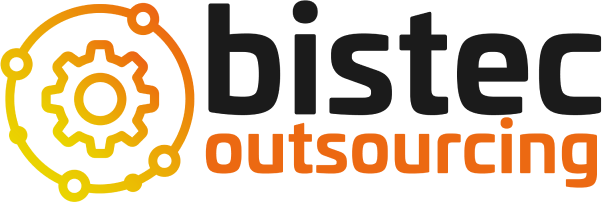
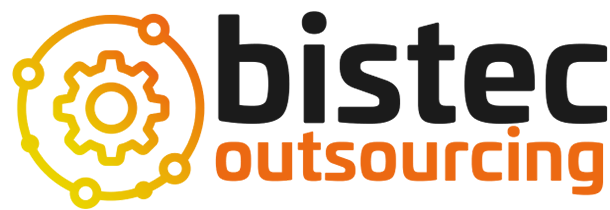
corrige tamanho das imagens e padroniza para 610x210px, feita algumas alterações no css do texto

diff --git a/index.html b/index.html
@@ -65,8 +65,8 @@
         <section class="bistec-produtos" id="bistec-automaçao">
                 <img src="assets/images/img-lg-bistec-automação.png" alt="Bistec Automação">
                 <div class="texto-produtos">
-                    <h4>Troque a anotação pela automação</h4>
-                    <h2>Facilite a sua gestão e o consumo dos seus clientes. Automatize.</h2>
+                    <h2>Troque a anotação pela automação</h2>
+                    <h4>Facilite a sua gestão e o consumo dos seus clientes. Automatize.</h4>
                     <p>
                         A Bistec, já consolidada no mercado de <strong>tecnologia para o comércio e serviços</strong>, oferece o kit completo para montar seu PDV e automatizar suas vendas. Adquira a Solução SAT Fiscal, facilite sua gestão e as transações com seus clientes, e esteja em dia com a legislação fiscal.
                     </p>
@@ -85,8 +85,8 @@
         <section class="bistec-produtos" id="bistec-cloud">
             <img src="assets/images/img-lg-bistec-cloud.png" alt="Bistec Cloud">
                 <div class="texto-produtos">
-                    <h4>Backup corporativo na nuvem</h4>
-                    <h2>Guarde o que é importante com segurança, sem ocupar espaço algum!</h2>
+                    <h2>Backup corporativo na nuvem</h2>
+                    <h4>Guarde o que é importante com segurança, sem ocupar espaço algum!</h4>
                     <p>
                         As informações corporativas estão cada vez mais digitalizadas e online. Por isso, as empresas devem se prevenir contra a perda de informações importantes e, para tanto, precisam adotar políticas de backup eficazes que contemplem o armazenamento fora do ambiente produtivo.
                     </p>
@@ -102,7 +102,7 @@
         <section class="bistec-produtos" id="bistec-edu">
             <img src="assets/images/img-lg-bistec-edu.png" alt="Bistec Edu">
                 <div class="texto-produtos">
-                    <h2>Treinamentos: use a tecnologia com capacidade máxima.</h2>
+                    <h4>Treinamentos: use a tecnologia com capacidade máxima.</h4>
                     <p>
                         Faça o treinamento com toda a sua equipe e explore 100% da capacidade das soluções adquiridas. A Bistec Edu é a divisão de <strong>prestação de serviços de treinamentos em informática</strong> e de desenvolvimento profissional e gerencial.
                     </p>
@@ -123,16 +123,16 @@
 
         <section class="bistec-produtos" id="bistec-gpdr">
             <img src="assets/images/img-lg-GPDR.png" alt="Bistec GDPR">
-                <h4 class="texto-produtos">
+                <h2 class="texto-produtos">
                     Lorem ipsum dolor sit amet, consectetur adipiscing elit. Mauris suscipit aliquam quam id accumsan. Vestibulum accumsan sem ornare libero sodales elementum
-                </h4>
+                </h2>
         </section>
 
         <section class="bistec-produtos" id="bistec-outsourcing">
             <img src="assets/images/img-lg-bistec-outsourcing.png" alt="Bistec OutSourcing">
                 <div class="texto-produtos">
-                    <h4 class="widget-title">Contrate outsourcing de TI</h4><p>
-                        <h2>Contrate técnicos preparados para cuidar de sua empresa.</h2>
+                    <h2 class="widget-title">Contrate outsourcing de TI</h2><p>
+                        <h4>Contrate técnicos preparados para cuidar de sua empresa.</h4>
                         <p>
                             Por um valor mensal, sua empresa pode contar com suporte técnico telefônico e on-line, além de visitas técnicas preventivas e corretivas. Realizamos manutenções periódicas e resolvemos casos mais graves em seus equipamentos, com o compromisso de atender de forma rápida e eficiente.
                         </p>
@@ -148,8 +148,8 @@
         <section class="bistec-produtos" id="bistec-renting">
             <img src="assets/images/img-lg-bistec-renting.png" alt="Bistec Renting">
                 <div class="texto-produtos">
-                    <h4>Renting de TI</h4>
-                        <h2>Faça a locação de equipamentos, e mantenha a liquidez de sua empresa</h2>
+                    <h2>Renting de TI</h2>
+                        <h4>Faça a locação de equipamentos, e mantenha a liquidez de sua empresa</h4>
                         <p>
                             Mantenha a sua liquidez adquirindo os sistemas de gestão e TI através da locação de equipamentos.
                         </p>
@@ -174,8 +174,8 @@
         <section class="bistec-produtos" id="bistec-soft">
             <img src="assets/images/img-lg-bistec-soft.png" alt="Bistec Soft">
                 <div class="texto-produtos">
-                    <h4>Todo tipo de software</h4><p>
-                        <h2>O Bistec soft agora cuida do seu site e contas de e-mail!</h2>
+                    <h2>Todo tipo de software</h2><p>
+                        <h4>O Bistec soft agora cuida do seu site e contas de e-mail!</h4>
                         <p>
                             Se você esta procurando um Software para Automação Comercial, clique <strong><a href="https://www.bistec.com.br/portfolio/bistec-automacao/">aqui</a></strong> e você será direcionado para a página BISTEC Automação.
                         </p>
@@ -188,7 +188,7 @@
                             <li>Realidade Aumentada</li>
                         </ul>
 
-                        <h2>Crie já o seu site institucional</h2>
+                        <h4>Crie já o seu site institucional</h4>
                         <p>
                             Tenha um site (www.nomedaminhaempresa.com.br) hospedado em servidor com alta disponibilidade e contas de e-mail profissionais para sua empresa. (contato@nomedaminhaempresa.com.br)
                         </p>

diff --git a/assets/css/style.css b/assets/css/style.css
@@ -234,24 +234,28 @@ ion-icon {
 
 /*---PRODUTOS------------------------------------*/
 .bistec-produtos{
-    padding: 50px 25px;
+    padding: 5vw 2.5vw 2.5vw 2.5vw;
     display: flex;
-    margin-bottom: 2;
+    align-items: center;
+    justify-content: center;
 }
-
+.texto-produtos{
+    margin-left: 2.5vw;;
+}
 .bistec-produtos img{
     width: 40vw;
     height: 20vh;
     margin: 1vw;
     margin-right: 2.5vw;
 }
-.texto-produtos h4{
-    font-size: 3vw;
-    margin-left: 2.5vw;
-}
 .texto-produtos h2{
-    font-size: 3vw;
-    margin-left: 2.5vw;
+    font-size: 3.3vw;
+}
+.texto-produtos h4{
+    font-size: 2.5vw;
+}
+.texto-produtos p{
+    font-size: 1.5vw;
 }
 
 /*--RODAPÉ---------------------------------------------*/   
